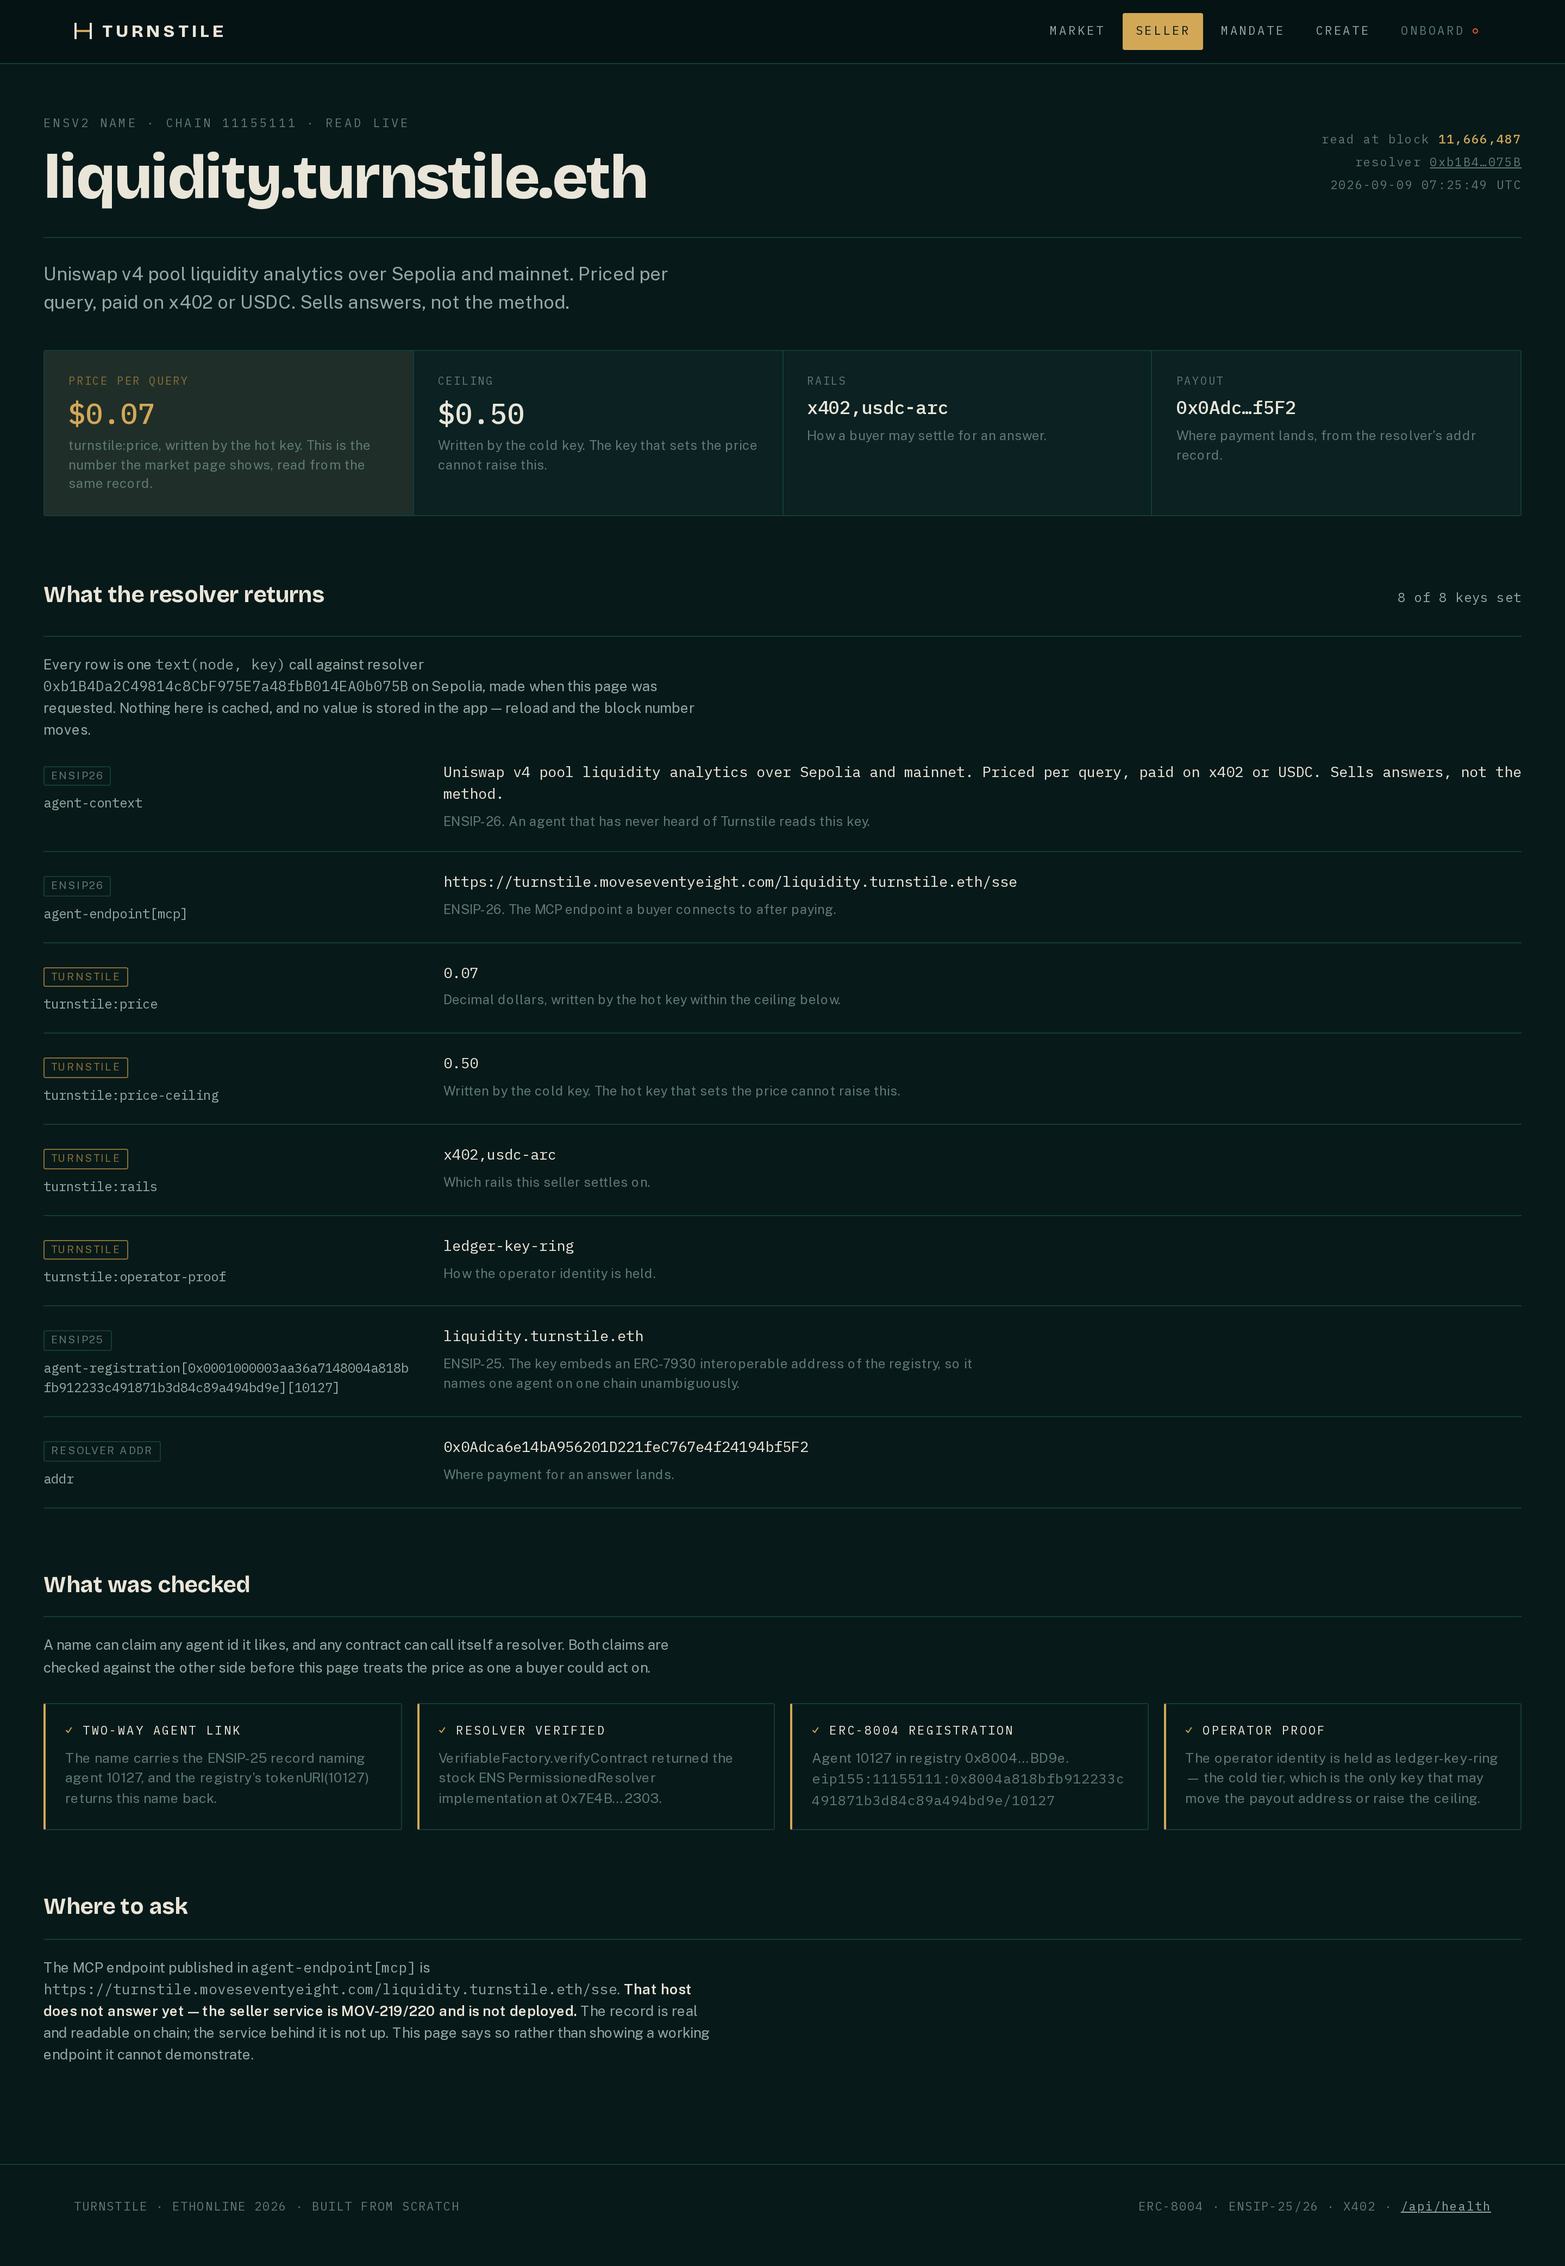
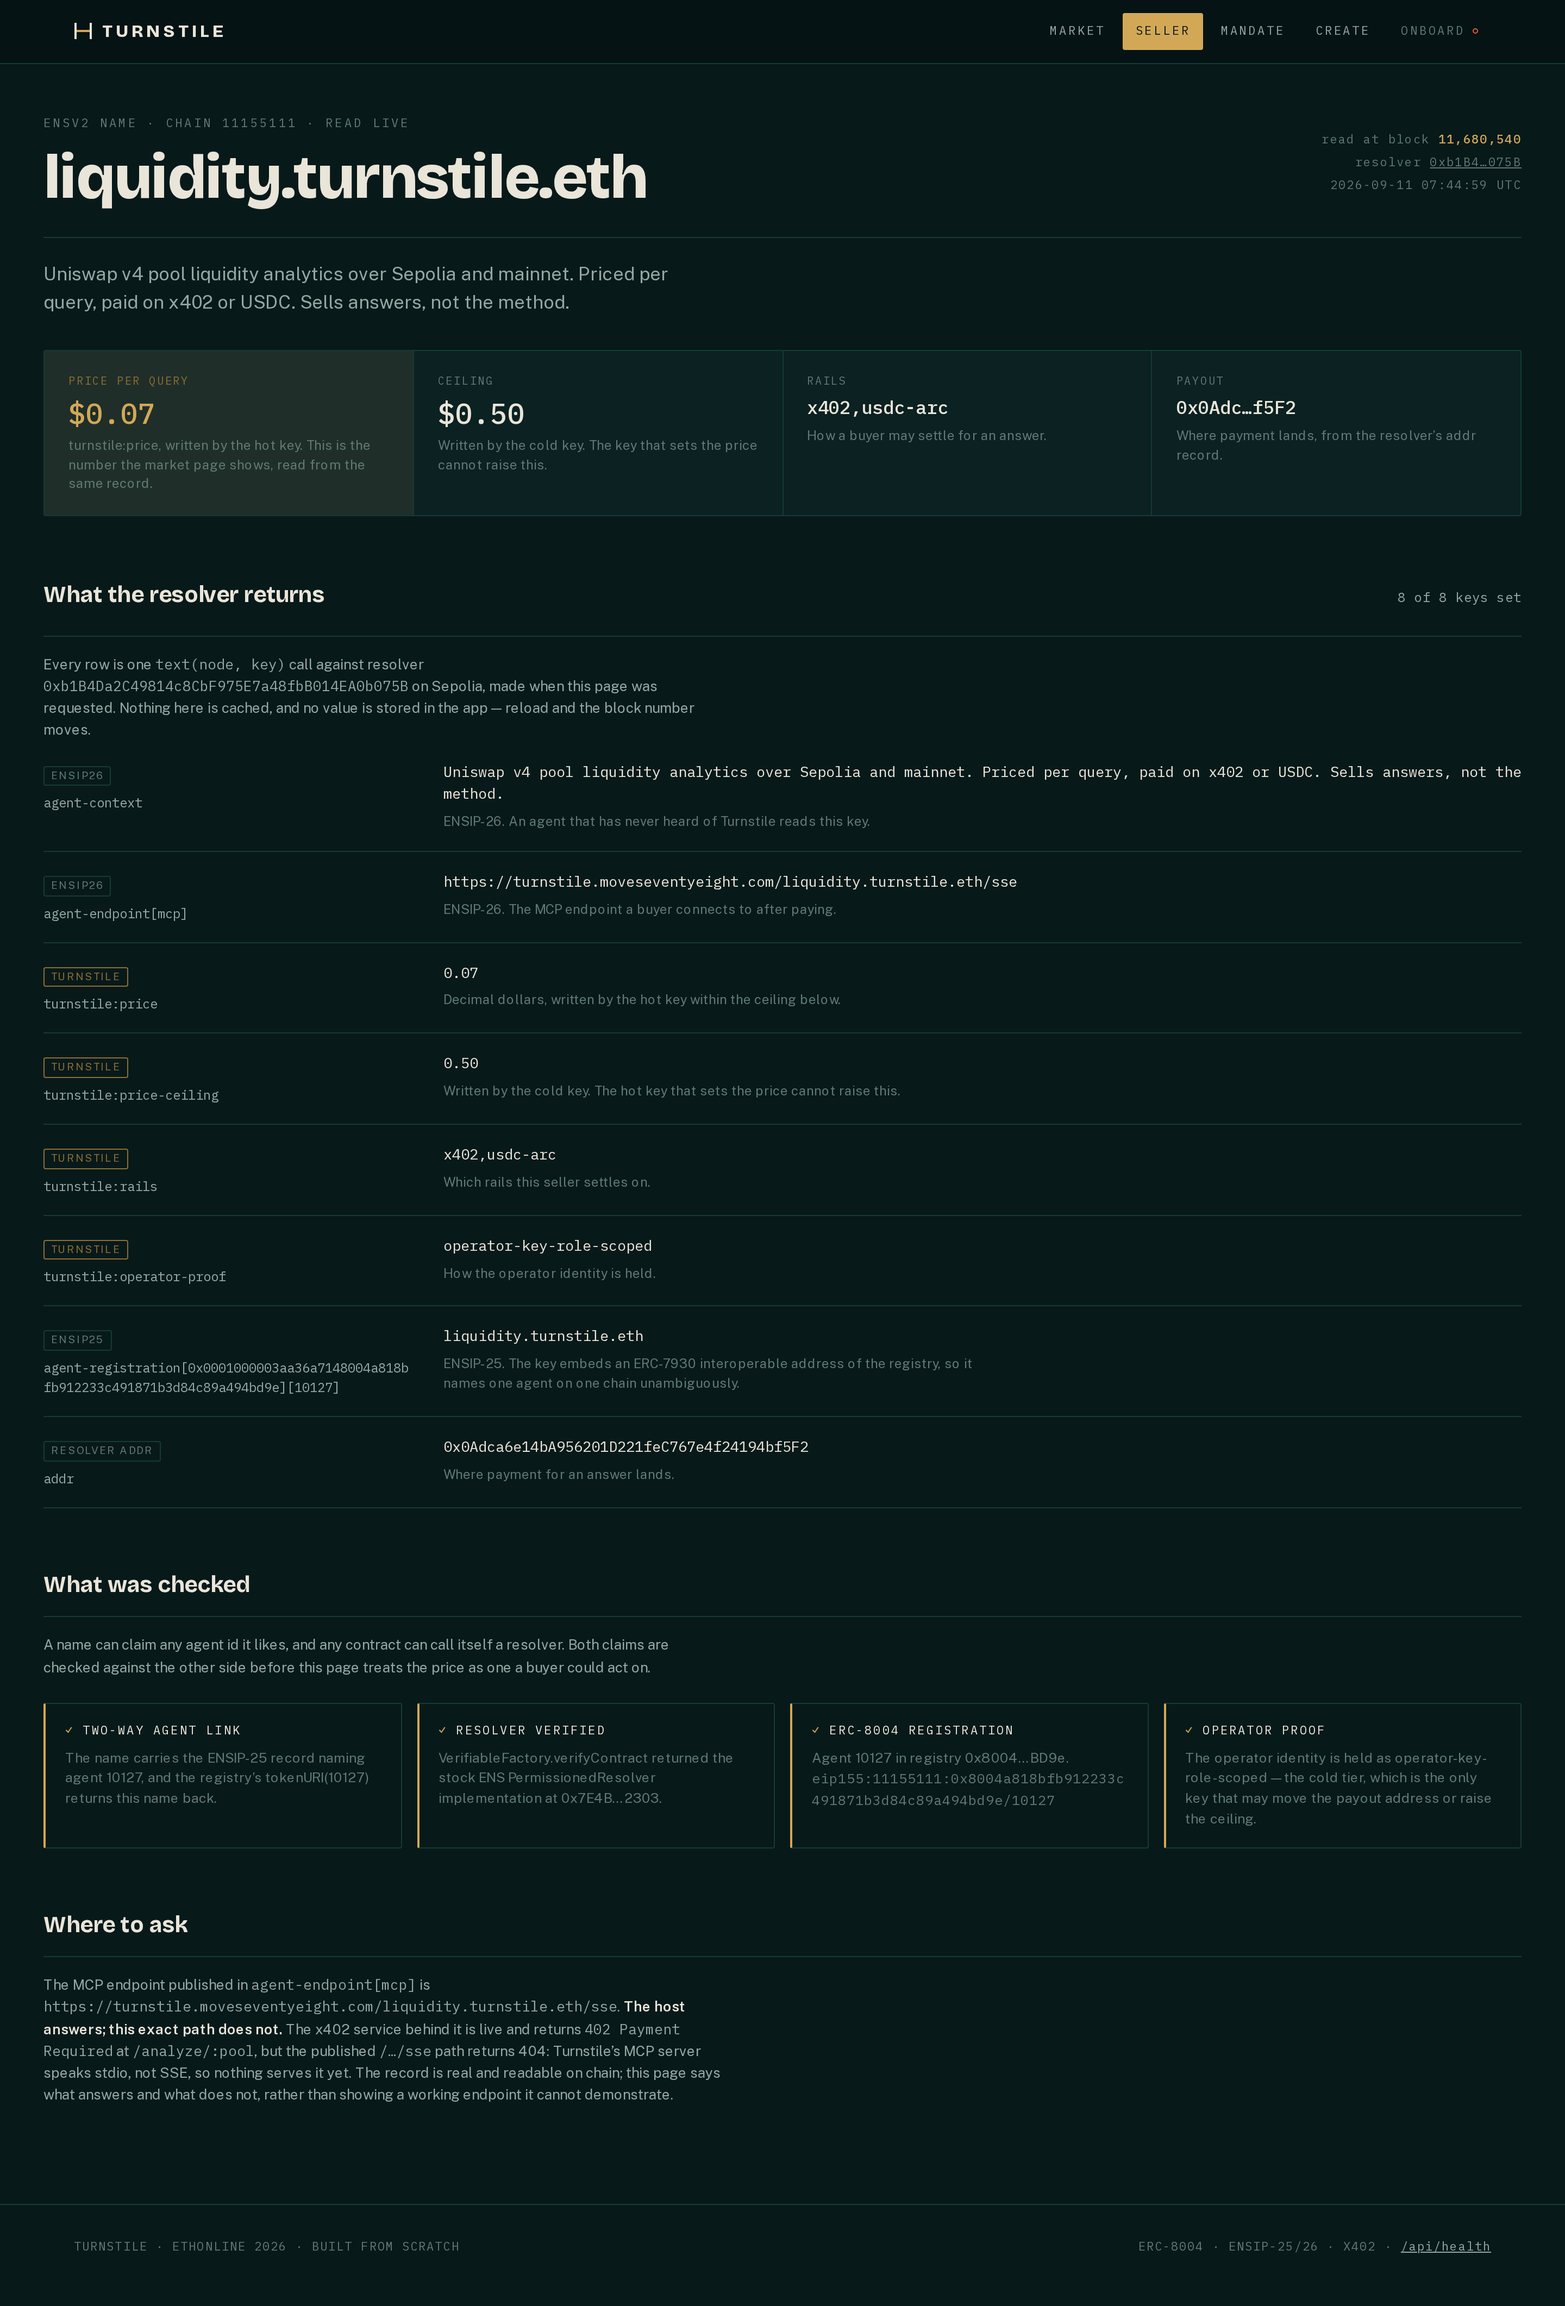
docs: screenshots re-captured from the public deployment
All five screenshots were taken again on 2026-09-11 against
https://turnstile.moveseventyeight.com, after the seller-page copy fix went live.
The previous set was captured from localhost on 2026-09-09 and showed two things
that are no longer true: turnstile:operator-proof reading ledger-key-ring
(rewritten on chain today) and a "Where to ask" section saying the host does not
answer (it has answered since this morning; only the published /…/sse path 404s).

Checked by eye before committing, not trusted from the script's exit code:
- seller.png: operator-key-role-scoped, and "the host answers; this exact path
  does not" with the 402 at /analyze/:pool.
- mandate.png: both rails read from the deployed VM — 12 on Hedera at $0.840000,
  13 on Arc at $0.215000. The capture waits on "Settled to date", which renders
  even when a rail fails, so a silent "could not be read" had to be ruled out by
  looking.

Capture dates follow the images: the README lead caption, EVIDENCE.md's table
intro and five walkthrough figure captions now say 2026-09-11 and name the public
deployment, with the block and time read off the new images. EVIDENCE.md's note
that seller.png was stale gets a dated update rather than a deletion.

diff --git a/walkthrough/06-run-it.html b/walkthrough/06-run-it.html
@@ -155,7 +155,7 @@ $ curl -i http://localhost:4021/analyze/0x88e6a0c2ddd26feeb64f039a2c41296fcb3f56
         funding the agent takes one signature and raising the cap takes two, and
         that asymmetry is the only thing standing between an agent and its own
         spending limit.
-        <span class="fig-date">Captured 2026-09-09.</span>
+        <span class="fig-date">Captured 2026-09-11 from the public deployment.</span>
       </figcaption>
     </figure>
 
@@ -170,7 +170,7 @@ $ curl -i http://localhost:4021/analyze/0x88e6a0c2ddd26feeb64f039a2c41296fcb3f56
         to the page, because a nullifier handed to a browser would let anyone
         correlate listings to a human. The button does not work yet &mdash; see
         below.
-        <span class="fig-date">Captured 2026-09-09.</span>
+        <span class="fig-date">Captured 2026-09-11 from the public deployment.</span>
       </figcaption>
     </figure>
 

diff --git a/walkthrough/01-the-problem.html b/walkthrough/01-the-problem.html
@@ -38,7 +38,7 @@
         ranking banner underneath says the ordering is registration recency and
         carries no reputation signal &mdash; the page labels its own placeholder
         rather than implying a score it has not earned.
-        <span class="fig-date">Captured 2026-09-09 from a 2026-09-07 directory snapshot.</span>
+        <span class="fig-date">Captured 2026-09-11 from the public deployment, over a 2026-09-07 directory snapshot.</span>
       </figcaption>
     </figure>
 

diff --git a/walkthrough/02-the-offer-record.html b/walkthrough/02-the-offer-record.html
@@ -51,7 +51,7 @@
         before the page treats the price as one a buyer could act on, and the
         last section says in bold that the published endpoint does not answer
         yet.
-        <span class="fig-date">Captured 2026-09-09 07:25:49 UTC, block 11,666,487.</span>
+        <span class="fig-date">Captured 2026-09-11 07:44:59 UTC from the public deployment, block 11,680,540.</span>
       </figcaption>
     </figure>
 

diff --git a/walkthrough/04-two-rails.html b/walkthrough/04-two-rails.html
@@ -40,7 +40,7 @@
         purpose, so the people who can spend are not the people who decide how
         much. The ledger at the bottom is one row per payment with the
         transaction it landed in.
-        <span class="fig-date">Captured 2026-09-09 07:25:50 UTC.</span>
+        <span class="fig-date">Captured 2026-09-11 07:45:01 UTC from the public deployment.</span>
       </figcaption>
     </figure>
 

diff --git a/docs/EVIDENCE.md b/docs/EVIDENCE.md
@@ -19,7 +19,7 @@ came from. There is a [48-second recording](./walkthrough.mp4) too.
 
 ## The screens these claims describe
 
-Every image is the live stack, captured 2026-09-09, waiting on real data rather
+Every image is the live stack, captured 2026-09-11 from the public deployment, waiting on real data rather
 than a timer — a shot taken on page load would show a structurally complete page
 with none of the thing it exists to show.
 
@@ -37,6 +37,15 @@ on chain 2026-09-11), and a "Where to ask" section saying the published host doe
 not answer yet (the host is live since 2026-09-11; the published *path* still
 404s). What it claims in the table above — a live, uncached read from Sepolia — is
 unaffected. It was not re-captured in this change.
+
+**Update (2026-09-11, MOV-276): re-captured.** All five screenshots were taken
+again on 2026-09-11 from the **public deployment**, `https://turnstile.moveseventyeight.com`,
+after the seller-page copy fix (MOV-275) went live. `seller.png` now shows
+`turnstile:operator-proof` = `operator-key-role-scoped`, and a "Where to ask"
+section saying the host answers while the published `/…/sse` path returns 404.
+`mandate.png` shows both rails read from the deployed VM (12 on Hedera at
+$0.840000, 13 on Arc at $0.215000). The note above was accurate for the images it
+described; those images have been replaced.
 
 **Run the product end to end in one command:**
 

diff --git a/README.md b/README.md
@@ -27,7 +27,7 @@ rather than hidden.
 
 *The whole problem in one screen. 197 real registrations; one posts a price on
 chain, 97 will answer if you ask and none do, 99 have no price at all. Captured
-2026-09-09 from a dated snapshot.*
+2026-09-11 from the public deployment; the directory itself is a 2026-09-07 snapshot.*
 
 **Every claim in this README is linked to a transaction or marked as unproven, in
 [`docs/EVIDENCE.md`](./docs/EVIDENCE.md).** That page has a "what is not live"
